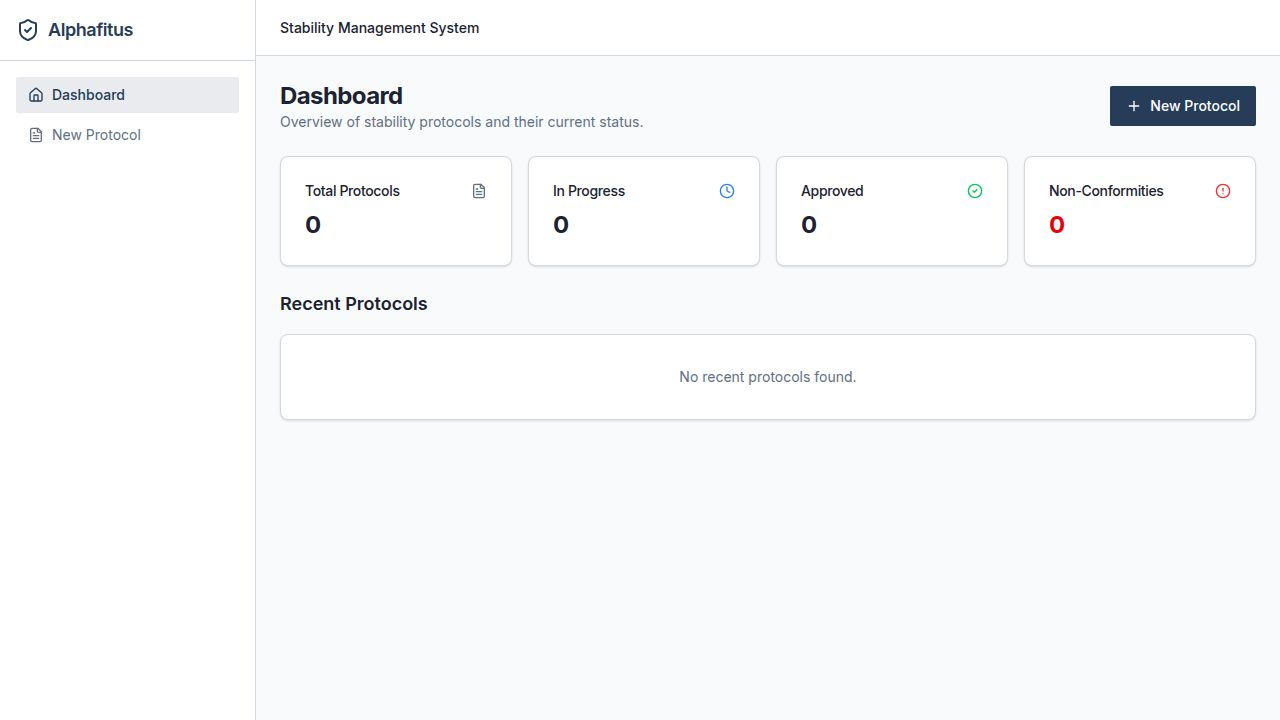
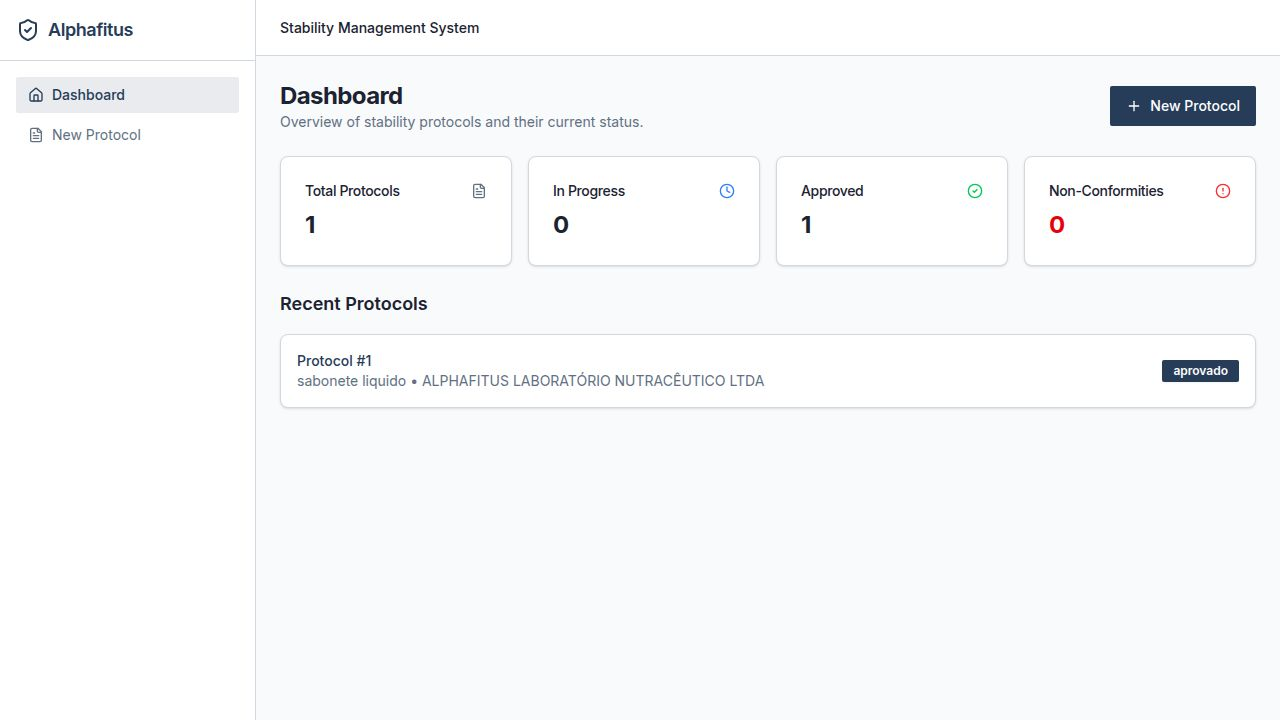
Update kinetics calculations and data display for stability protocols
Refactor kinetic parameter calculations to include specification criteria, remove the 'tObserved' metric, and automatically populate threshold ranges in the UI.

Replit-Commit-Author: Agent
Replit-Commit-Session-Id: 3fc75128-fa38-4de8-866c-a7eee9c330bd
Replit-Commit-Checkpoint-Type: full_checkpoint
Replit-Commit-Event-Id: 6136e652-51a4-449b-bf58-d52c9efe4797
Replit-Commit-Screenshot-Url: https://storage.googleapis.com/screenshot-production-us-central1/e924162d-ecad-4501-b0b7-8950ecdea8cb/3fc75128-fa38-4de8-866c-a7eee9c330bd/yNHFHlA
Replit-Helium-Checkpoint-Created: true

diff --git a/artifacts/protocolo-estabilidade/src/pages/protocol-detail.tsx b/artifacts/protocolo-estabilidade/src/pages/protocol-detail.tsx
@@ -825,8 +825,16 @@ type KineticOverride = {
   t0: string; t3: string; t6: string;
   deltaLn: string; k: string;
   thresholdMin: string; thresholdMax: string;
-  shelfLife: string; tObserved: string; validadePraticada: string;
+  shelfLife: string; validadePraticada: string;
 };
+
+function parseCriterionRange(criterion: string | null | undefined): { min: string; max: string } {
+  if (!criterion) return { min: "", max: "" };
+  const normalized = criterion.replace(/,/g, ".").replace(/[–—]/g, "-").replace(/%/g, "").trim();
+  const match = normalized.match(/(\d+\.?\d*)\s*-\s*(\d+\.?\d*)/);
+  if (!match) return { min: "", max: "" };
+  return { min: match[1], max: match[2] };
+}
 
 function calcKineticOverride(
   t0s: string, t3s: string, t6s: string, thresholds: string,
@@ -851,15 +859,10 @@ function calcKineticOverride(
   const lnNum = -Math.log(threshold / c0);
   const shelfLife = lnNum > 0 ? (lnNum / k).toFixed(1) : "";
 
-  // t_observado = -ln(avgT6/avgT0) / k  [Excel Sheet2: K8=-LN(G4/G8), L8=K8/M3]
-  const lnObs = -Math.log(t6 / c0);
-  const tObserved = lnObs > 0 ? (lnObs / k).toFixed(1) : "";
-
   return {
     deltaLn: deltaLn.toFixed(6),
     k: k.toFixed(6),
     shelfLife,
-    tObserved,
   };
 }
 
@@ -903,22 +906,21 @@ function KineticsTab({ protocolId, initialKineticsNotes, initialValidityMonths }
 
   const [overrides, setOverrides] = useState<Record<string, KineticOverride>>({});
   const [initialized, setInitialized] = useState(false);
-  const [cardShelfLife, setCardShelfLife] = useState("");
-  const [cardValidity, setCardValidity] = useState(initialValidityMonths != null ? String(initialValidityMonths) : "");
+  const [cardValidity, setCardValidity] = useState("");
   const [kineticsObs, setKineticsObs] = useState(initialKineticsNotes ?? "");
 
-  const buildOverride = (p: { t0?: number | null; t3?: number | null; t6?: number | null; deltaLn?: number | null; k?: number | null; estimatedShelfLifeMonths?: number | null; tObserved?: number | null; minThresholdPercent: number }): KineticOverride => {
+  const buildOverride = (p: { t0?: number | null; t3?: number | null; t6?: number | null; deltaLn?: number | null; k?: number | null; estimatedShelfLifeMonths?: number | null; minThresholdPercent: number; criterion?: string | null }): KineticOverride => {
     const t0 = p.t0 != null ? p.t0.toFixed(2) : "";
     const t3 = p.t3 != null ? p.t3.toFixed(2) : "";
     const t6 = p.t6 != null ? p.t6.toFixed(2) : "";
+    const { min: thresholdMin, max: thresholdMax } = parseCriterionRange(p.criterion);
     return {
       t0, t3, t6,
       deltaLn: p.deltaLn != null ? p.deltaLn.toFixed(6) : "",
       k: p.k != null ? p.k.toFixed(6) : "",
-      thresholdMin: p.minThresholdPercent.toString(),
-      thresholdMax: "",
+      thresholdMin: thresholdMin || p.minThresholdPercent.toString(),
+      thresholdMax,
       shelfLife: p.estimatedShelfLifeMonths != null ? p.estimatedShelfLifeMonths.toFixed(1) : "",
-      tObserved: p.tObserved != null ? p.tObserved.toFixed(1) : "",
       validadePraticada: "",
     };
   };
@@ -929,11 +931,6 @@ function KineticsTab({ protocolId, initialKineticsNotes, initialValidityMonths }
       init[p.parameter] = buildOverride(p);
     }
     setOverrides(init);
-    setCardShelfLife(kinetics.estimatedShelfLifeMonths != null ? String(Math.floor(kinetics.estimatedShelfLifeMonths)) : "");
-    // Only set cardValidity from kinetics if no value was saved in the protocol
-    if (!initialValidityMonths) {
-      setCardValidity(kinetics.recommendedValidityMonths != null ? String(kinetics.recommendedValidityMonths) : "");
-    }
     setInitialized(true);
   }
 
@@ -955,8 +952,6 @@ function KineticsTab({ protocolId, initialKineticsNotes, initialValidityMonths }
       reset[p.parameter] = buildOverride(p);
     }
     setOverrides(reset);
-    setCardShelfLife(kinetics.estimatedShelfLifeMonths != null ? String(Math.floor(kinetics.estimatedShelfLifeMonths)) : "");
-    setCardValidity(kinetics.recommendedValidityMonths != null ? String(kinetics.recommendedValidityMonths) : "");
   };
 
   if (isLoading) return <div className="text-center py-8 text-muted-foreground">Calculando...</div>;
@@ -984,18 +979,13 @@ function KineticsTab({ protocolId, initialKineticsNotes, initialValidityMonths }
             <div className="flex-1">
               <p className="text-xs text-green-700 font-medium uppercase tracking-wide mb-1">Vida Útil Estimada (t<sub>validade</sub>)</p>
               <div className="flex items-center gap-2">
-                <input
-                  value={cardShelfLife}
-                  onChange={(e) => setCardShelfLife(e.target.value)}
-                  className="w-24 text-3xl font-bold text-green-800 bg-green-100 border border-green-300 rounded px-2 py-0.5 focus:outline-none focus:ring-2 focus:ring-green-500"
-                  placeholder="—"
-                />
+                <span className="text-3xl font-bold text-green-800 tabular-nums">
+                  {minShelfLife != null ? Math.floor(minShelfLife) : "—"}
+                </span>
                 <span className="text-xl font-semibold text-green-700">meses</span>
               </div>
               {limitingParam && <p className="text-xs text-green-700 mt-1">Parâmetro limitante: {limitingParam}</p>}
-              {minShelfLife != null && (
-                <p className="text-xs text-green-600 mt-1 opacity-70">Calculado: {Math.floor(minShelfLife)} meses</p>
-              )}
+              <p className="text-xs text-green-600 mt-1 opacity-60">Menor validade calculada entre os parâmetros de Teor do Ativo</p>
             </div>
             <div className="flex-1 text-right">
               <p className="text-xs text-green-700 font-medium uppercase tracking-wide mb-1">Validade Praticada</p>
@@ -1024,15 +1014,14 @@ function KineticsTab({ protocolId, initialKineticsNotes, initialValidityMonths }
           <TableHeader>
             <TableRow className="bg-muted/40">
               <TableHead className="text-xs">Parâmetro</TableHead>
-              <TableHead className="text-right text-xs">Média T0 (%)</TableHead>
-              <TableHead className="text-right text-xs">Média T3 (%)</TableHead>
-              <TableHead className="text-right text-xs">Média T6 (%)</TableHead>
+              <TableHead className="text-right text-xs whitespace-nowrap">Média T0 (%)</TableHead>
+              <TableHead className="text-right text-xs whitespace-nowrap">Média T3 (%)</TableHead>
+              <TableHead className="text-right text-xs whitespace-nowrap">Média T6 (%)</TableHead>
               <TableHead className="text-right text-xs bg-blue-50/60 whitespace-nowrap">Δln = −ln(T6/T3)</TableHead>
               <TableHead className="text-right text-xs bg-blue-50/60 whitespace-nowrap">k = Δln/3 (mês⁻¹)</TableHead>
-              <TableHead className="text-right text-xs bg-amber-50/60 whitespace-nowrap">t<sub>val</sub> ICH 80% (meses)</TableHead>
-              <TableHead className="text-right text-xs whitespace-nowrap">t<sub>obs</sub> −ln(T6/T0)/k (meses)</TableHead>
-              <TableHead className="text-right text-xs">Validade (meses)</TableHead>
-              <TableHead className="text-right text-xs">Lim. mín – máx (%)</TableHead>
+              <TableHead className="text-right text-xs bg-amber-50/60 whitespace-nowrap">t<sub>val</sub> ICH (meses)</TableHead>
+              <TableHead className="text-right text-xs whitespace-nowrap">Validade (meses)</TableHead>
+              <TableHead className="text-right text-xs whitespace-nowrap">Lim. mín – máx (%)</TableHead>
             </TableRow>
           </TableHeader>
           <TableBody>
@@ -1040,19 +1029,18 @@ function KineticsTab({ protocolId, initialKineticsNotes, initialValidityMonths }
               const ov = overrides[p.parameter];
               if (!ov) return null;
               const shelfNum = parseFloat(ov.shelfLife);
-              const tObsNum = parseFloat(ov.tObserved);
               const isLimiting = p.parameter === limitingParam;
               return (
-                <TableRow key={p.parameter}>
+                <TableRow key={p.parameter} className={isLimiting ? "bg-amber-50/40" : ""}>
                   <TableCell className="font-medium text-sm">{p.parameter}</TableCell>
-                  <TableCell className="text-right py-2">
-                    <EditableNum value={ov.t0} onChange={(v) => setField(p.parameter, "t0", v)} />
+                  <TableCell className="text-right py-2 font-mono text-sm tabular-nums text-gray-700">
+                    {ov.t0 || "—"}
                   </TableCell>
-                  <TableCell className="text-right py-2">
-                    <EditableNum value={ov.t3} onChange={(v) => setField(p.parameter, "t3", v)} />
+                  <TableCell className="text-right py-2 font-mono text-sm tabular-nums text-gray-700">
+                    {ov.t3 || "—"}
                   </TableCell>
-                  <TableCell className="text-right py-2">
-                    <EditableNum value={ov.t6} onChange={(v) => setField(p.parameter, "t6", v)} />
+                  <TableCell className="text-right py-2 font-mono text-sm tabular-nums text-gray-700">
+                    {ov.t6 || "—"}
                   </TableCell>
                   <TableCell className="text-right py-2 bg-blue-50/30">
                     <EditableNum value={ov.deltaLn} onChange={(v) => setField(p.parameter, "deltaLn", v)} width="w-28" />
@@ -1067,14 +1055,6 @@ function KineticsTab({ protocolId, initialKineticsNotes, initialValidityMonths }
                         <span className={`text-xs font-semibold ml-1 ${isLimiting ? "text-amber-600" : "text-green-700"}`}>
                           ≈ {Math.floor(shelfNum)} m
                         </span>
-                      )}
-                    </div>
-                  </TableCell>
-                  <TableCell className="text-right py-2">
-                    <div className="flex items-center justify-end gap-1">
-                      <EditableNum value={ov.tObserved} onChange={(v) => setField(p.parameter, "tObserved", v)} width="w-20" />
-                      {!isNaN(tObsNum) && tObsNum > 0 && (
-                        <span className="text-xs text-slate-500 ml-1">≈ {Math.floor(tObsNum)} m</span>
                       )}
                     </div>
                   </TableCell>

diff --git a/artifacts/api-server/src/routes/kinetics.ts b/artifacts/api-server/src/routes/kinetics.ts
@@ -52,17 +52,18 @@ router.get("/protocols/:id/kinetics", async (req, res): Promise<void> => {
     .where(eq(analysisResultsTable.protocolId, params.data.id));
 
   const activeParams = ["Calcio", "Vitamina D"];
-  const kineticData: Record<string, { t0vals: number[]; t3vals: number[]; t6vals: number[] }> = {};
+  const kineticData: Record<string, { t0vals: number[]; t3vals: number[]; t6vals: number[]; criterion: string | null }> = {};
   for (const p of activeParams) {
-    kineticData[p] = { t0vals: [], t3vals: [], t6vals: [] };
+    kineticData[p] = { t0vals: [], t3vals: [], t6vals: [], criterion: null };
   }
 
   for (const r of results) {
     if (!activeParams.includes(r.parameter)) continue;
-    const val = r.numericResult;
-    if (val == null) continue;
     const entry = kineticData[r.parameter];
     if (!entry) continue;
+    if (!entry.criterion && r.criterion) entry.criterion = r.criterion;
+    const val = r.numericResult;
+    if (val == null) continue;
     if (r.period === 0) entry.t0vals.push(val);
     if (r.period === 3) entry.t3vals.push(val);
     if (r.period === 6) entry.t6vals.push(val);
@@ -101,6 +102,7 @@ router.get("/protocols/:id/kinetics", async (req, res): Promise<void> => {
         estimatedShelfLifeMonths,
         tObserved,
         minThresholdPercent: threshold,
+        criterion: d.criterion ?? null,
       };
     })
     .filter(Boolean);